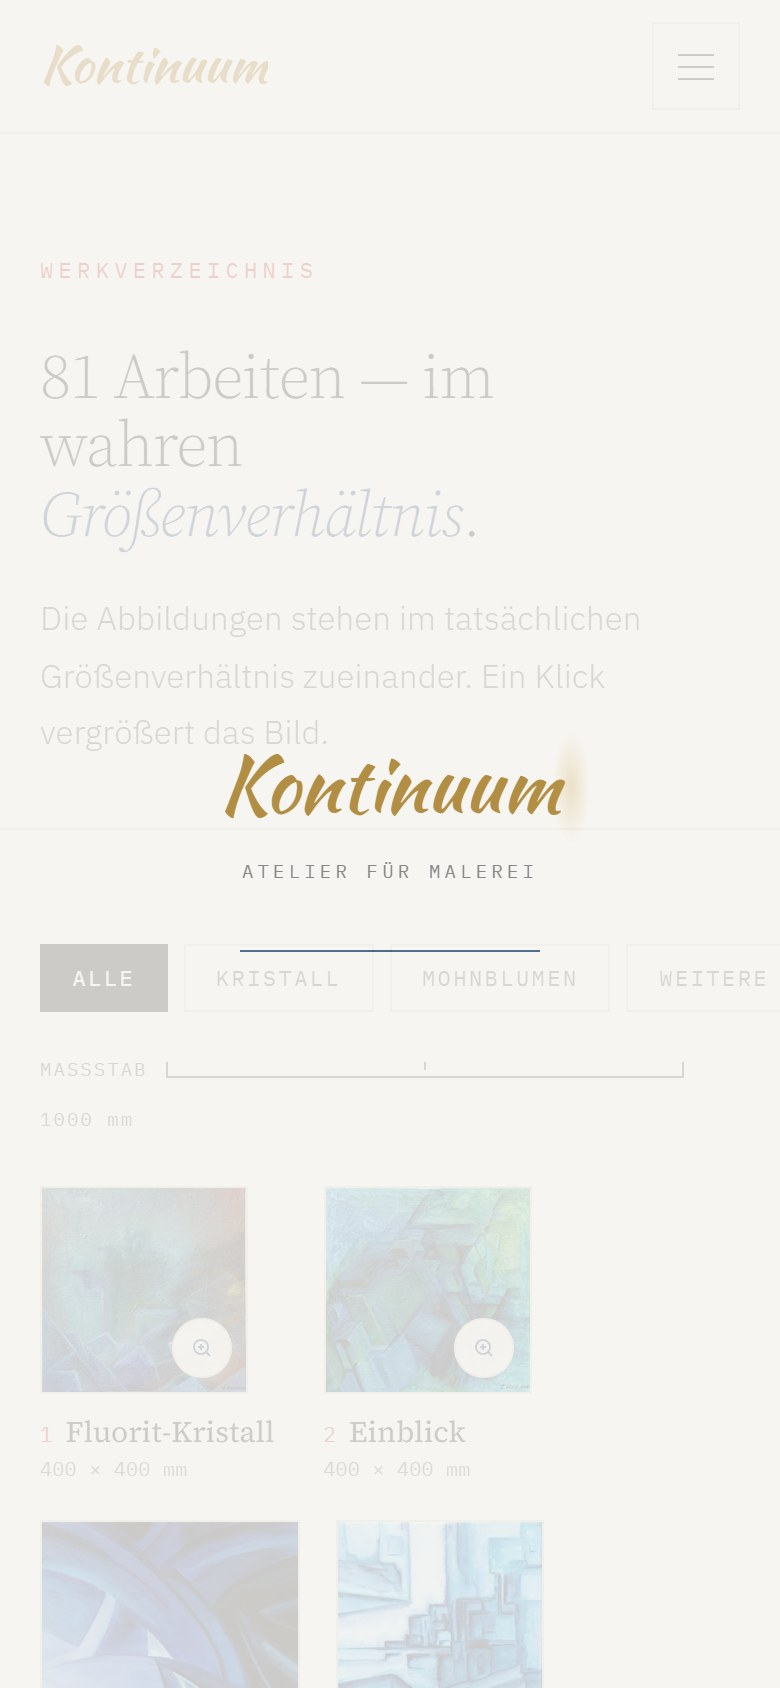
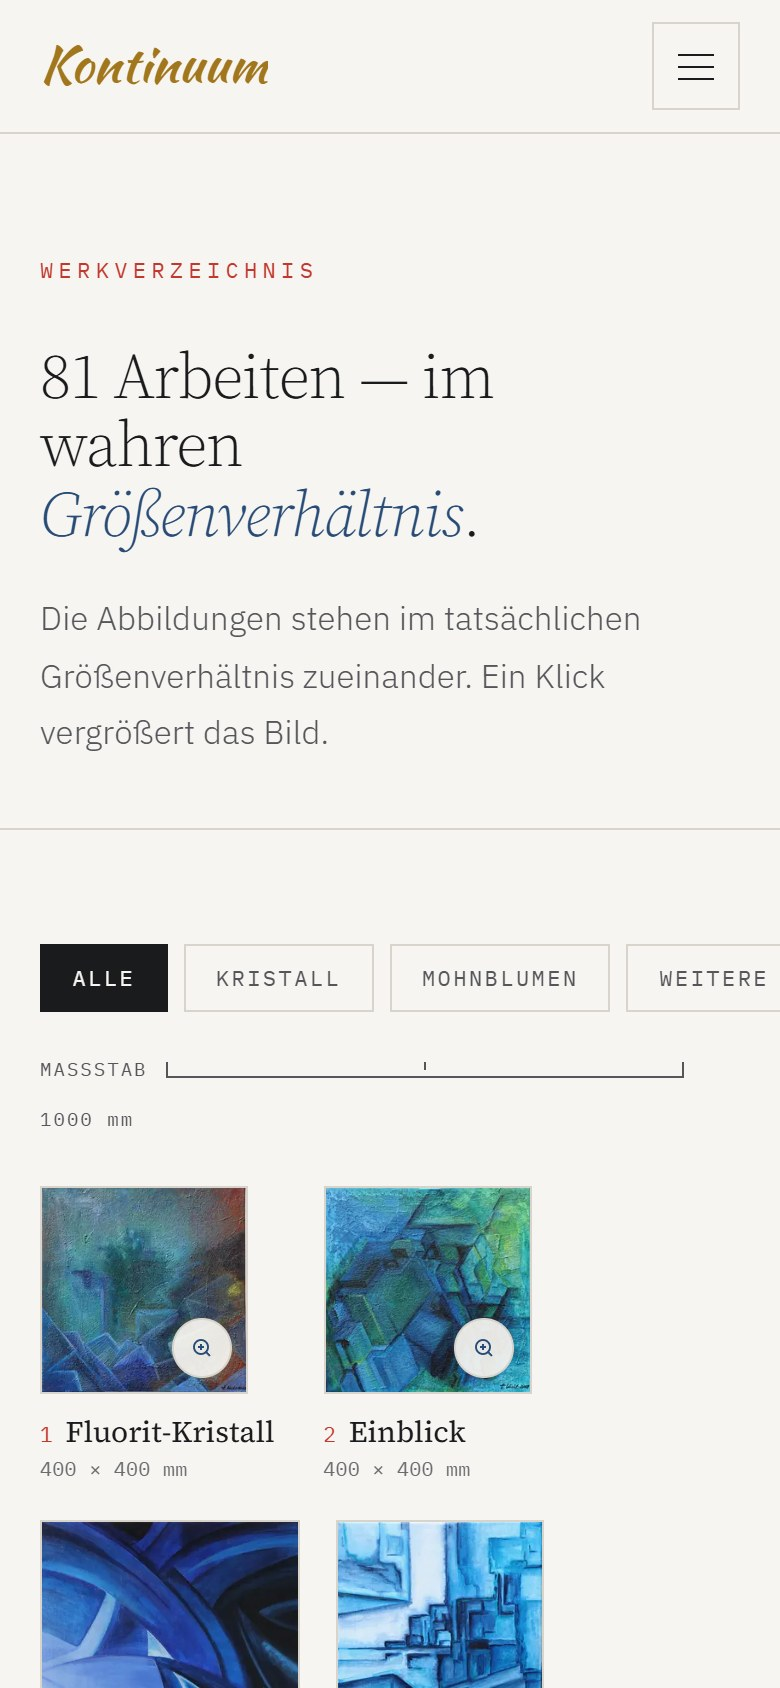
Review pass: exhibits, facts strip, fonts, a11y
- Comparison: only the default view loads at high priority; page fade removed
- Facts strip: odd last cell spans on mobile; values align when labels wrap
- Metric table: screen-reader label for the empty header cell (axe clean)
- Fonts: latin subset only, mono not preloaded
- LokalWeb: honest language claims; real generated site (Albanian) as exhibit
- Kontinuum: phone catalogue recaptured after the site's entrance
- Case pages: bottom spacing before the footer

diff --git a/app/work/lokalweb/page.tsx b/app/work/lokalweb/page.tsx
@@ -9,9 +9,8 @@ import wizardServices from "@/assets/lokalweb-wizard-step2-services.jpg";
 import wizardArchetype from "@/assets/lokalweb-wizard-step4-archetype.jpg";
 import dashboard from "@/assets/lokalweb-dashboard-overview.jpg";
 import bookings from "@/assets/lokalweb-bookings.jpg";
-import genBarber from "@/assets/lokalweb-gen-barbershop-bold.jpg";
-import genClinic from "@/assets/lokalweb-gen-clinic-clean.jpg";
-import genRestaurant from "@/assets/lokalweb-gen-restaurant-elegant.jpg";
+import siteHero from "@/assets/lokalweb-site-hero.jpg";
+import siteServices from "@/assets/lokalweb-site-services.jpg";
 
 const title = "LokalWeb: a website-as-a-service for Kosovo’s small businesses";
 const description =
@@ -73,7 +72,7 @@ export default function LokalWebCase() {
           priority
           src={landing}
           alt="The LokalWeb landing page: a headline in Albanian, industry cards and a call to build a site."
-          caption="The landing page at 1440 pixels wide. Albanian first, because the owners are."
+          caption="The landing page at 1440 pixels wide. The marketing page speaks English; the wizard behind it speaks Albanian."
         />
       </Exhibit>
 
@@ -149,8 +148,10 @@ export default function LokalWebCase() {
             contact call-to-action instead.
           </li>
           <li>
-            <strong>Albanian first.</strong> The wizard, the dashboard and the generated sites speak the
-            owner&rsquo;s language.
+            <strong>Albanian where the owner types.</strong> The wizard is written in Albanian, with
+            examples in the way people actually describe their shops. The generated site follows the
+            language chosen in step five. The dashboard is still a mix of Albanian and English, which
+            is on the list.
           </li>
           <li>
             <strong>A wizard harness.</strong> Fixtures of real business types run through the pipeline
@@ -161,24 +162,24 @@ export default function LokalWebCase() {
       </CaseSection>
 
       <Exhibit>
-        <div className="grid gap-6 md:grid-cols-3">
+        <div className="grid gap-6 md:grid-cols-2">
           <Figure
-            src={genBarber}
-            alt="A generated barbershop website with a bold dark hero and a booking button."
-            sizes="(min-width: 1200px) 360px, 100vw"
-            caption="Generated: a barbershop."
+            src={siteHero}
+            alt="A generated website for a test car dealership, Voca Autosallon: a dark hero with the Albanian headline E di çka po blen and a contact button."
+            sizes="(min-width: 1200px) 540px, 100vw"
+            caption={
+              <>
+                A generated site for a test business, a car dealership. The headline, &ldquo;E di
+                çka po blen&rdquo; (you know what you are buying), was written by the model from the
+                wizard input.
+              </>
+            }
           />
           <Figure
-            src={genClinic}
-            alt="A generated clinic website with a clean light hero and a list of services."
-            sizes="(min-width: 1200px) 360px, 100vw"
-            caption="Generated: a clinic."
-          />
-          <Figure
-            src={genRestaurant}
-            alt="A generated restaurant website with a photographic hero and an elegant serif headline."
-            sizes="(min-width: 1200px) 360px, 100vw"
-            caption="Generated: a restaurant. Uneven in places, which is exactly the work that remains."
+            src={siteServices}
+            alt="The same generated site, section Pse Te Ne: five cards describing SUVs, sedans, wagons, coupés and a kilometre guarantee, in Albanian."
+            sizes="(min-width: 1200px) 540px, 100vw"
+            caption="The same site, further down. Structured sections composed from the brief. The clipped logo in the header of the first screenshot is the product's own bug, not the screenshot's. Uneven in places, which is exactly the work that remains."
           />
         </div>
       </Exhibit>
@@ -189,7 +190,7 @@ export default function LokalWebCase() {
             src={dashboard}
             alt="The owner dashboard: site status, quick actions and recent bookings."
             sizes="(min-width: 1200px) 540px, 100vw"
-            caption="The owner&rsquo;s dashboard."
+            caption="The owner&rsquo;s dashboard, on a test business."
           />
           <Figure
             src={bookings}

diff --git a/app/page.tsx b/app/page.tsx
@@ -17,12 +17,9 @@ export const metadata: Metadata = {
   alternates: { canonical: "/" },
 };
 
-const factBar = [
-  "Software Development & Digitalisation Assistant, Petrol Company",
-  "Freelance web developer",
-  "BSc Computer Science & Engineering, UMIB, class of 2027",
-  "TypeScript · Next.js · Supabase / PostgreSQL · Python",
-  "Albanian · English (C1)",
+const factLines = [
+  "Software Development & Digitalisation Assistant, Petrol Company · Freelance web developer · BSc Computer Science & Engineering, UMIB, class of 2027",
+  "TypeScript · Next.js · Supabase / PostgreSQL · Python · Albanian · English (C1)",
 ];
 
 const now = [
@@ -132,12 +129,9 @@ export default function Home() {
             <p className="mt-4 text-[14px] text-muted">
               Open to junior full-stack roles and internships for 2027.
             </p>
-            <ul className="m-0 mt-8 flex list-none flex-wrap gap-x-3 gap-y-1.5 p-0 text-[13px] leading-snug text-muted-2">
-              {factBar.map((f, i) => (
-                <li key={f} className="flex gap-3">
-                  {i > 0 ? <span aria-hidden="true">·</span> : null}
-                  <span>{f}</span>
-                </li>
+            <ul className="m-0 mt-8 list-none space-y-1.5 p-0 text-[13px] leading-snug text-muted-2">
+              {factLines.map((f) => (
+                <li key={f}>{f}</li>
               ))}
             </ul>
           </div>

diff --git a/app/layout.tsx b/app/layout.tsx
@@ -5,17 +5,20 @@ import { Header } from "@/components/Header";
 import { Footer } from "@/components/Footer";
 import { site } from "@/content/site";
 
+// "latin" already covers ë and ç (Latin-1 Supplement), so no latin-ext payload.
 const geist = Geist({
-  subsets: ["latin", "latin-ext"],
+  subsets: ["latin"],
   variable: "--font-geist-sans",
   display: "swap",
 });
 
+// Mono is labels only; it can arrive late without hurting anything, so don't preload it.
 const geistMono = Geist_Mono({
-  subsets: ["latin", "latin-ext"],
+  subsets: ["latin"],
   variable: "--font-geist-mono",
   display: "swap",
   weight: ["400"],
+  preload: false,
 });
 
 const title = `${site.name} · Software developer, Mitrovicë`;
@@ -104,9 +107,7 @@ export default function RootLayout({ children }: { children: React.ReactNode }) 
           Skip to content
         </a>
         <Header />
-        <main id="main" className="animate-fade-in">
-          {children}
-        </main>
+        <main id="main">{children}</main>
         <Footer />
         <script type="application/ld+json" dangerouslySetInnerHTML={{ __html: JSON.stringify(jsonLd) }} />
         <script dangerouslySetInnerHTML={{ __html: consoleNote }} />

diff --git a/components/FactsStrip.tsx b/components/FactsStrip.tsx
@@ -7,9 +7,11 @@ export function FactsStrip({
 }) {
   const cols = columns === 3 ? "md:grid-cols-3" : columns === 2 ? "md:grid-cols-2" : "md:grid-cols-4";
   return (
-    <dl className={`m-0 grid grid-cols-2 gap-px border border-hairline bg-hairline ${cols}`}>
+    <dl
+      className={`m-0 grid grid-cols-2 gap-px border border-hairline bg-hairline [&>div:last-child:nth-child(odd)]:col-span-2 md:[&>div:last-child:nth-child(odd)]:col-span-1 ${cols}`}
+    >
       {facts.map((f) => (
-        <div key={f.label} className="flex flex-col-reverse gap-1 bg-paper p-4 md:p-5">
+        <div key={f.label} className="flex flex-col-reverse justify-end gap-1 bg-paper p-4 md:p-5">
           <dt className="text-[13px] leading-snug text-muted-2">{f.label}</dt>
           <dd className="m-0 font-mono text-[17px] leading-tight text-ink tnum md:text-[19px]">
             {f.value}

diff --git a/app/work/kontinuum/page.tsx b/app/work/kontinuum/page.tsx
@@ -289,8 +289,8 @@ export default function KontinuumCase() {
           <Figure
             phone
             src={afterWerkePhone}
-            alt="The catalogue page on a phone: the largest canvas fills the column, smaller works follow."
-            caption="On a phone the largest canvas fills the column; the relative scale holds within each row."
+            alt="The catalogue page on a phone: the headline 81 Arbeiten, series filters, the scale bar and the first works at their relative sizes."
+            caption="On a phone the relative scale still holds; the largest canvases fill the column."
           />
         </div>
       </Exhibit>

diff --git a/components/Comparison.tsx b/components/Comparison.tsx
@@ -69,7 +69,9 @@ export function Comparison({
               alt={shots[k].alt}
               fill
               sizes={sizes}
-              priority={priority}
+              priority={priority && k === defaultView}
+              loading={k === defaultView ? undefined : "eager"}
+              fetchPriority={k === defaultView ? undefined : "low"}
               className={`object-cover object-top transition-opacity duration-[320ms] ease-[var(--ease-out-soft)] ${
                 view === k ? "opacity-100" : "opacity-0"
               }`}

diff --git a/components/Case.tsx b/components/Case.tsx
@@ -80,7 +80,7 @@ export function CaseNav({
   next: { href: string; label: string };
 }) {
   return (
-    <nav aria-label="Case study navigation" className="container-x mt-16 md:mt-24">
+    <nav aria-label="Case study navigation" className="container-x mt-16 pb-16 md:mt-24 md:pb-24">
       <div className="flex flex-col gap-6 border-t border-hairline pt-6 md:flex-row md:items-start md:justify-between md:pt-8">
         <div className="flex flex-col gap-2 text-sm">
           {live ? (

diff --git a/components/MetricTable.tsx b/components/MetricTable.tsx
@@ -13,7 +13,7 @@ export function MetricTable({
         <thead>
           <tr className="border-b border-hairline font-mono text-[12px] uppercase tracking-wide text-muted-2">
             <th scope="col" className="py-2 pr-3 font-normal">
-              {columns[0]}
+              {columns[0] || <span className="sr-only">Measure</span>}
             </th>
             <th scope="col" className="py-2 pr-3 font-normal">
               {columns[1]}
